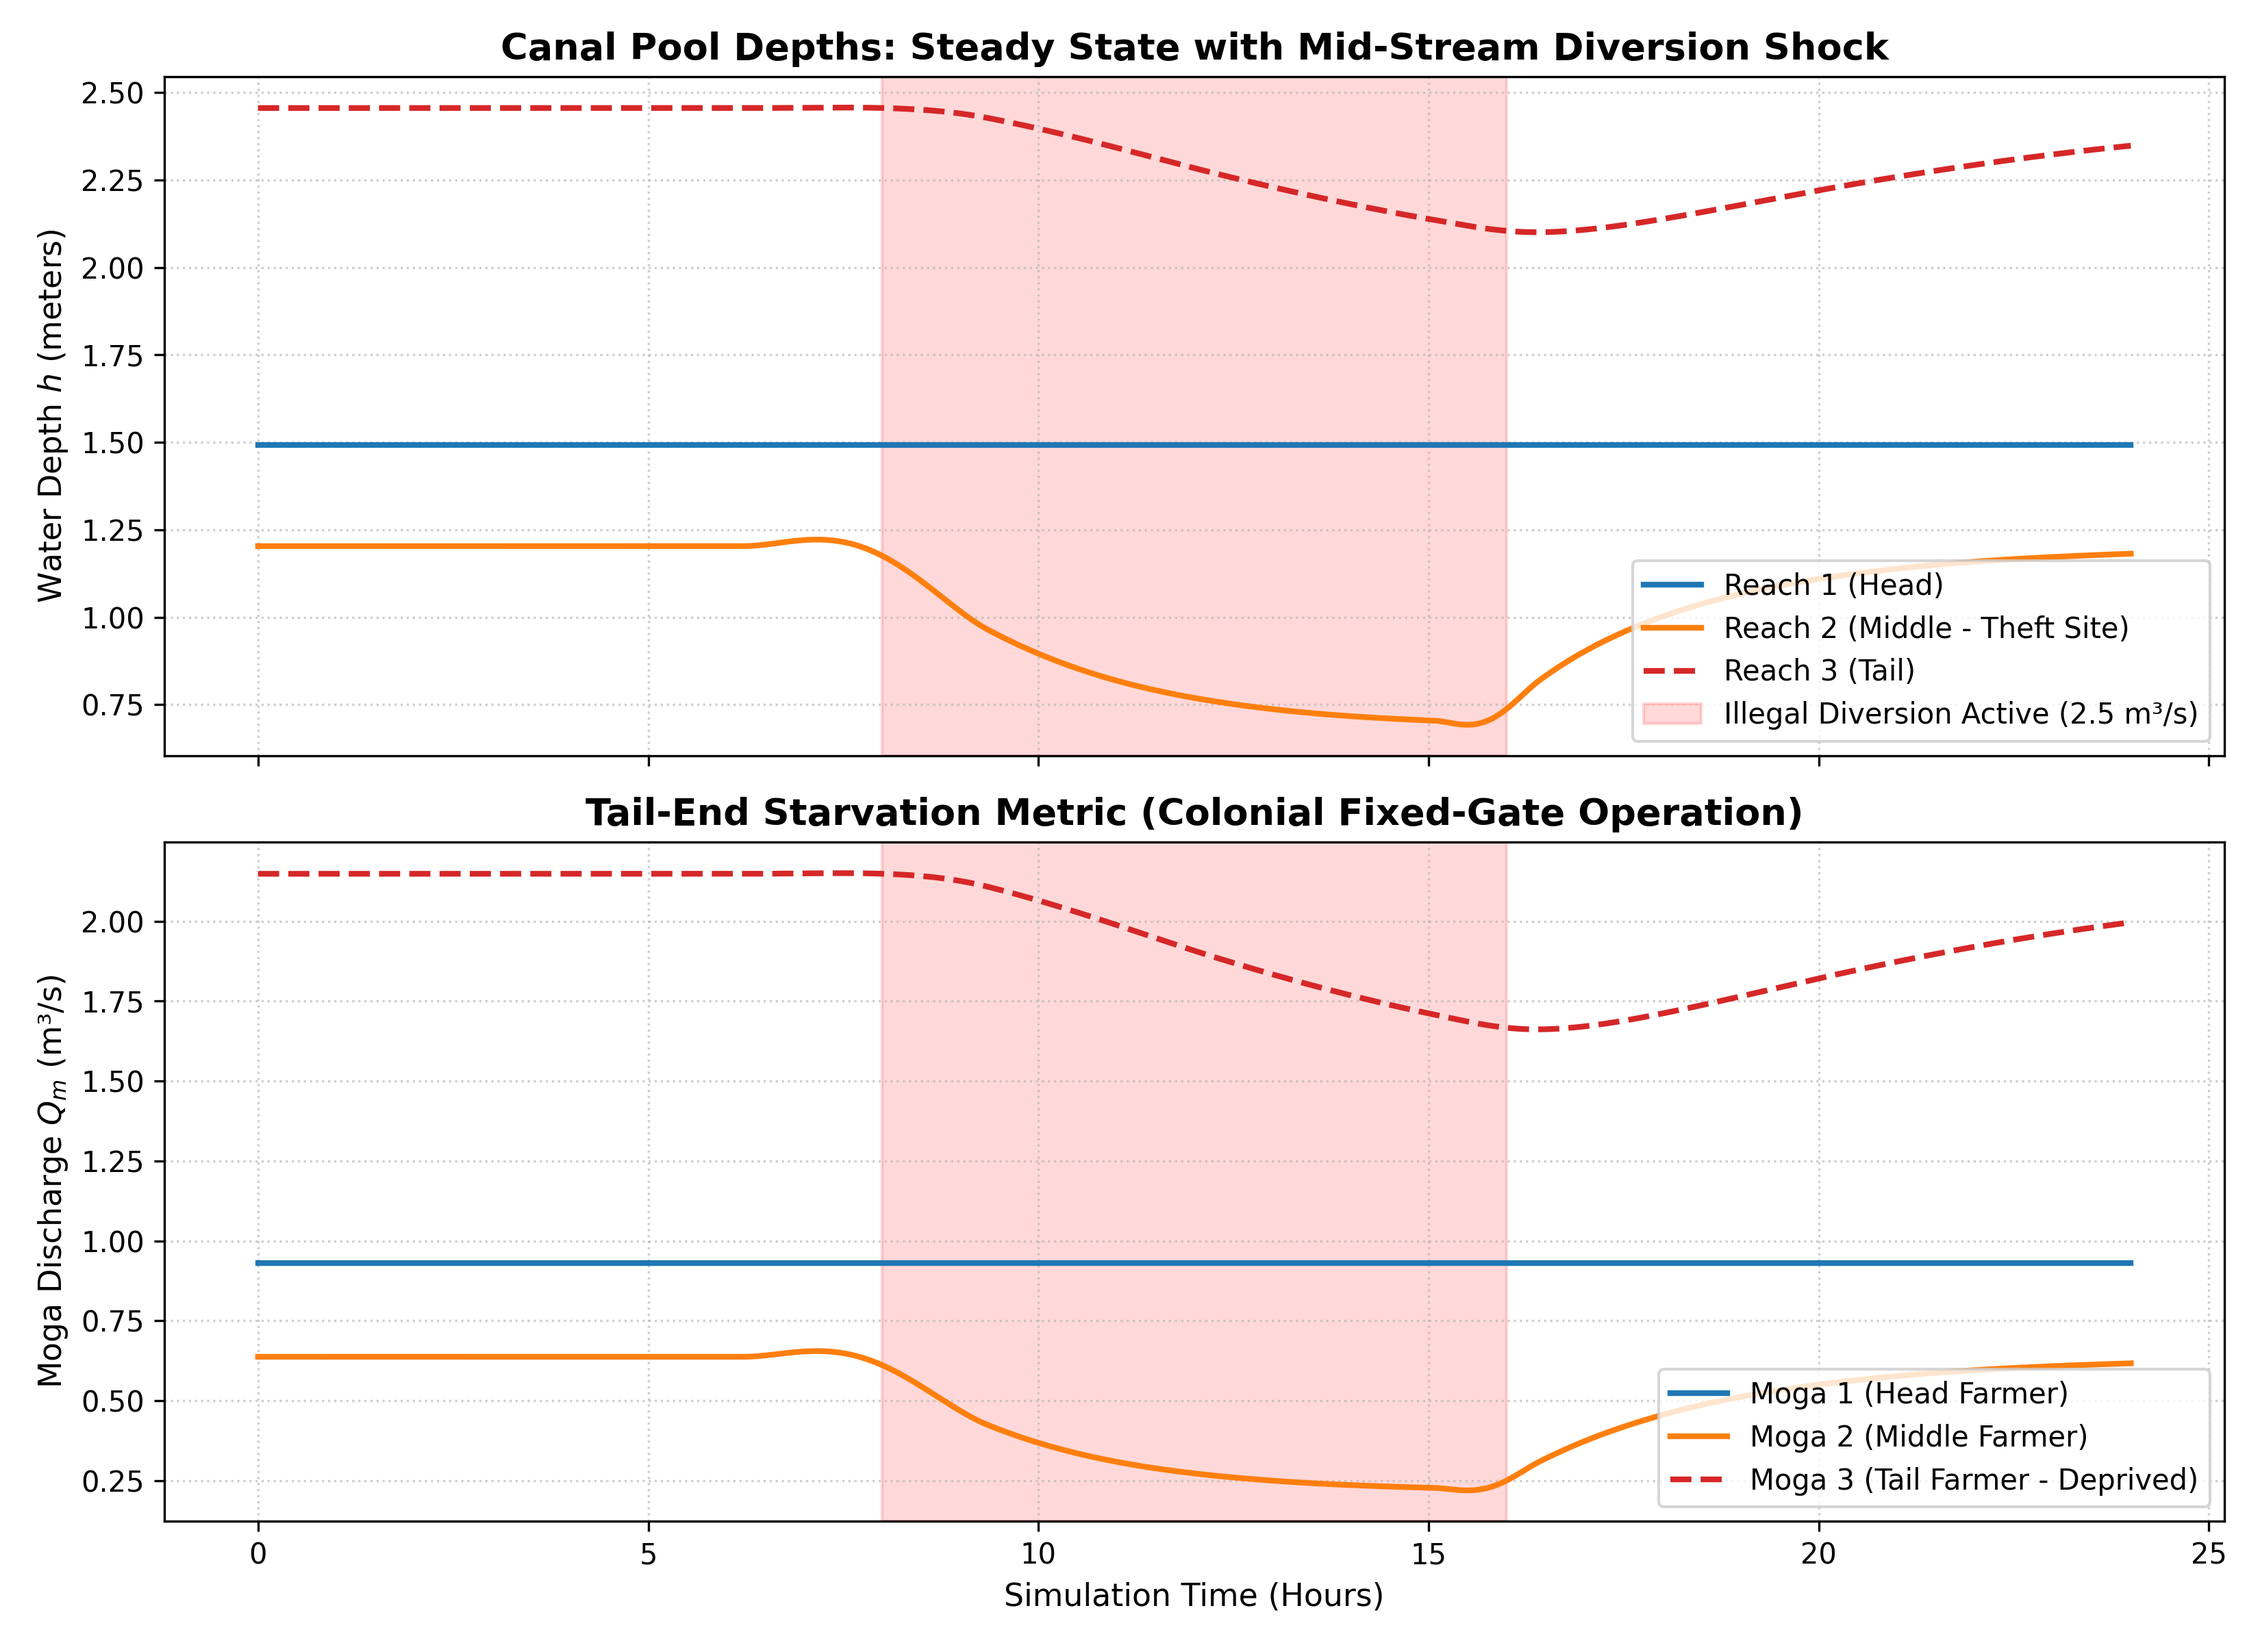
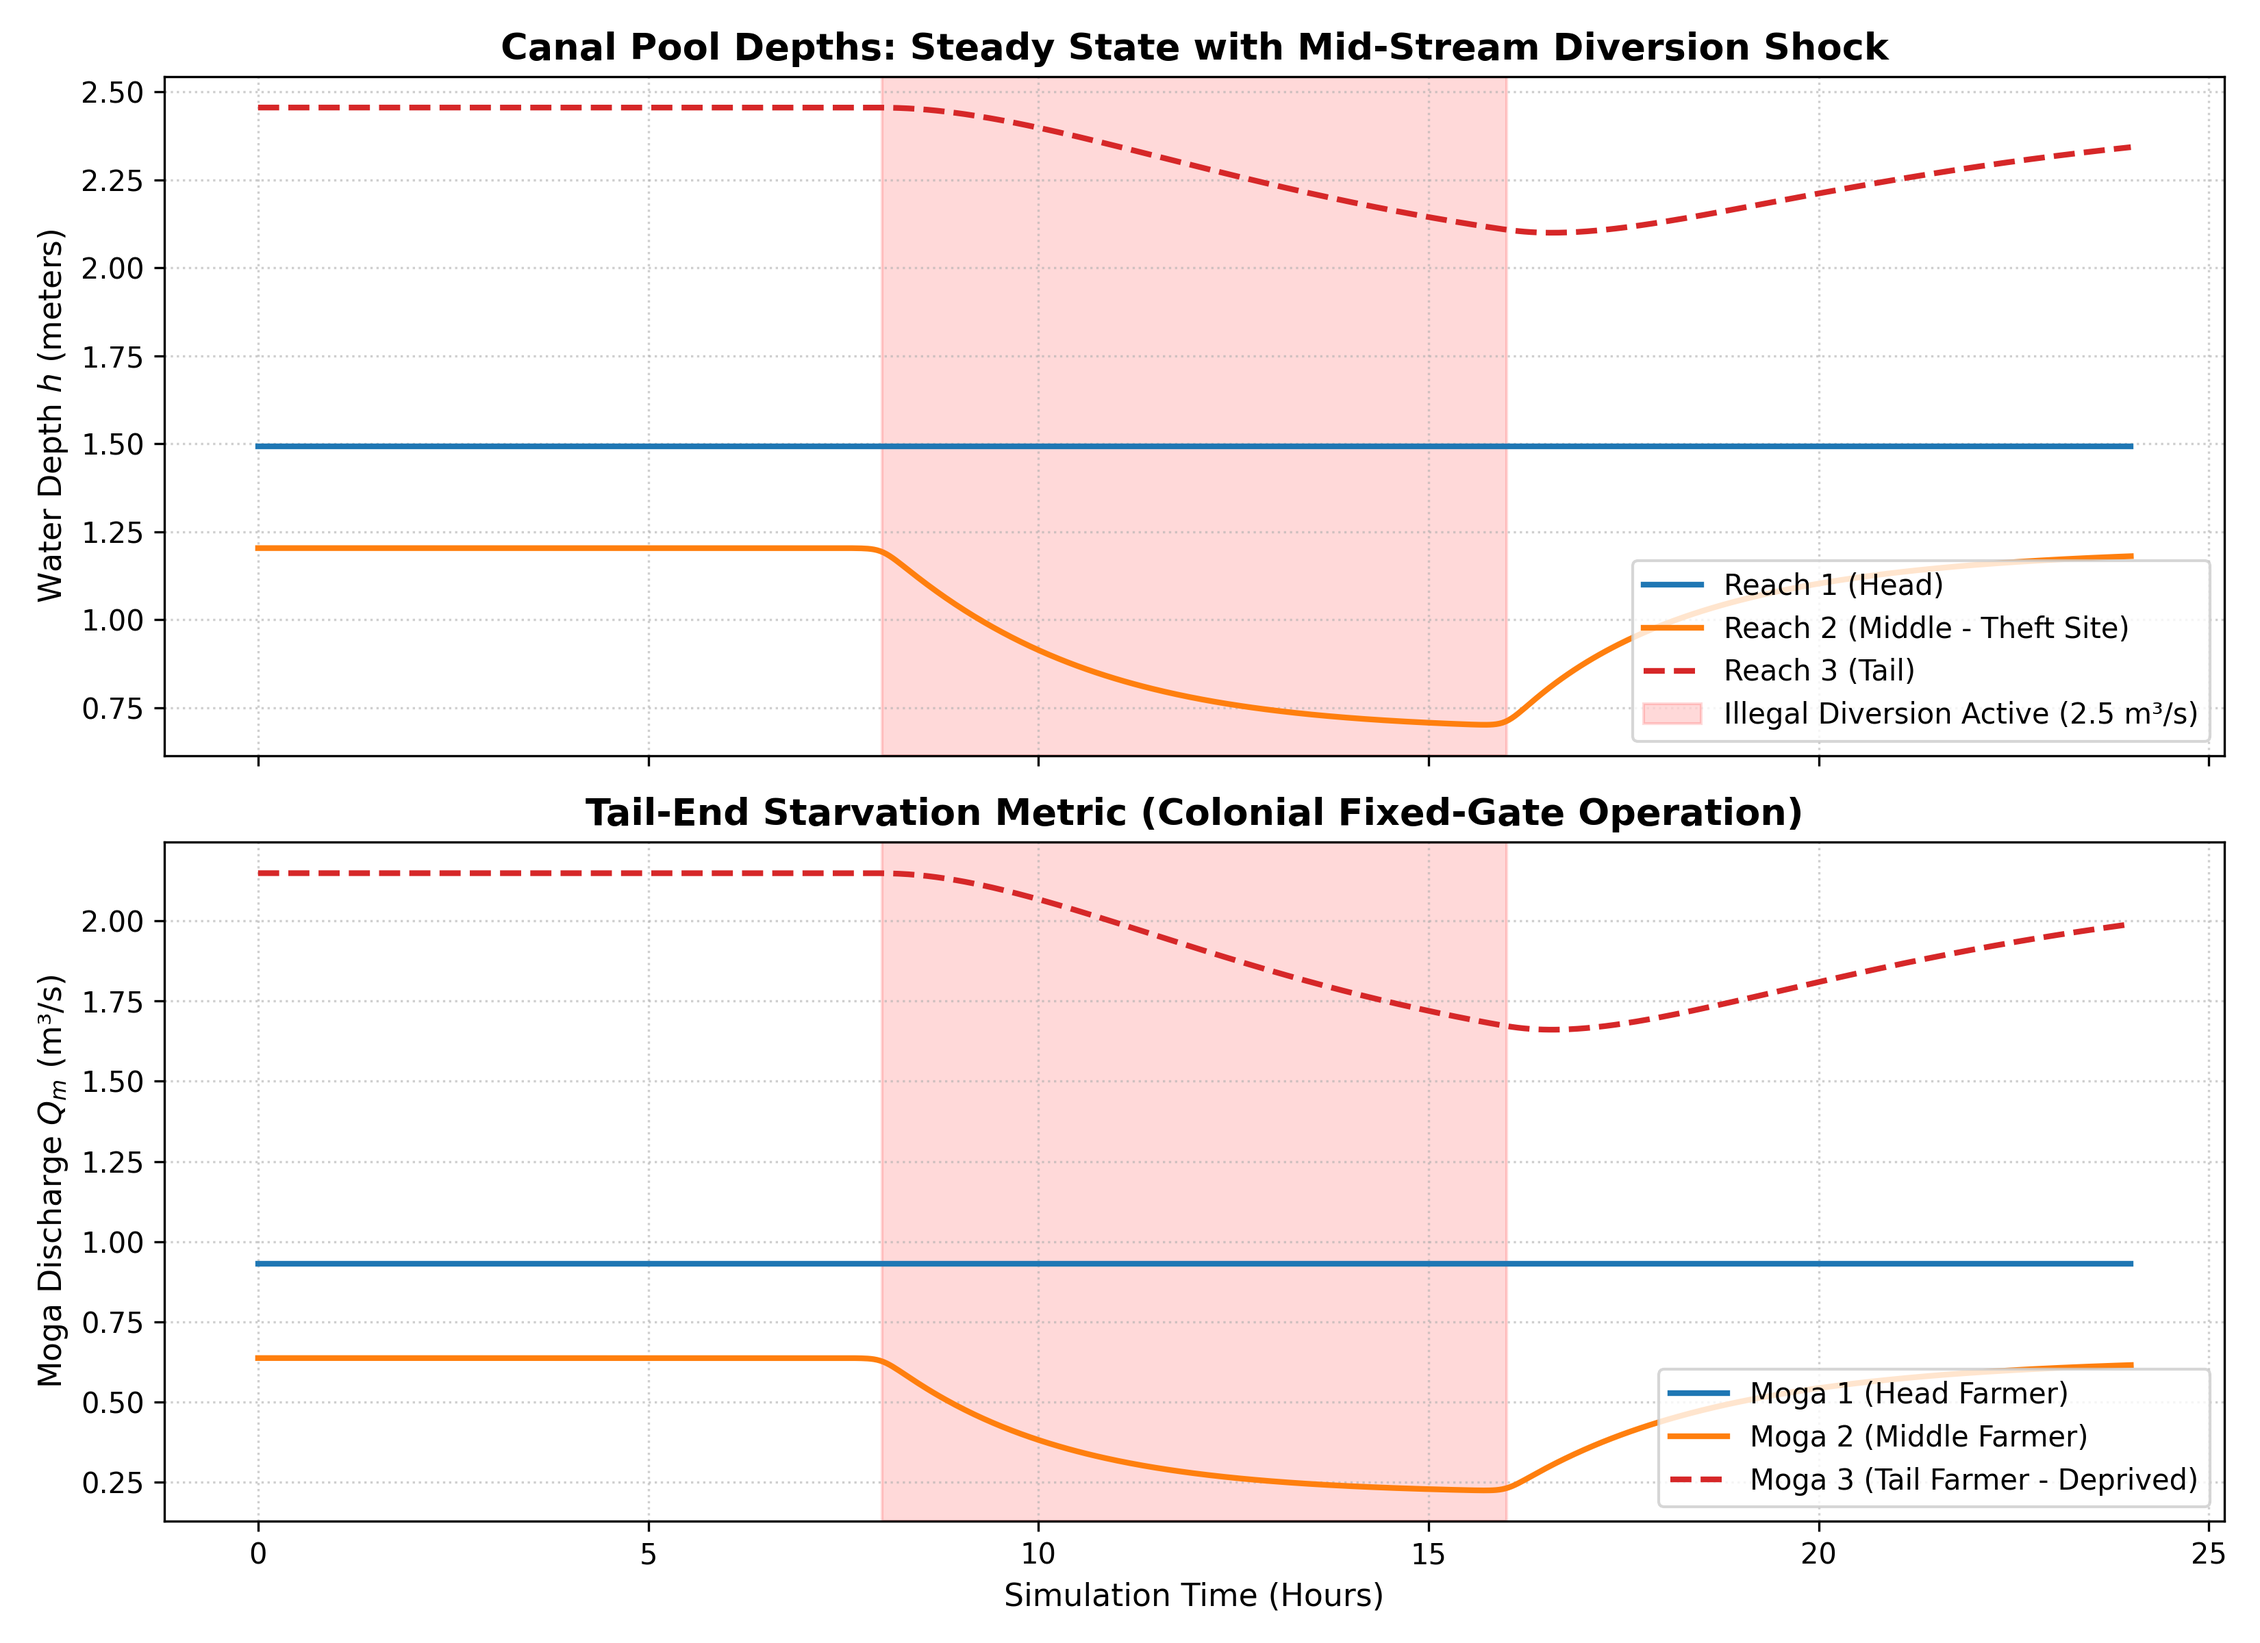
fix(physics): replace step theft with smooth sigmoid transition to eliminate solver ringing

diff --git a/src/network.py b/src/network.py
@@ -1,5 +1,6 @@
 """
 Multi-reach canal network assembling interconnected hydraulic pools and ODEs.
+Includes smooth physical transitions to eliminate numerical interpolation ringing.
 """
 from typing import List, Tuple
 import numpy as np
@@ -21,6 +22,29 @@ class CanalNetwork:
             SluiceGate(gate_width=3.5, cd=0.60),   # Gate 1: Cross-Regulator 1 (R1 -> R2)
             SluiceGate(gate_width=3.0, cd=0.60)    # Gate 2: Cross-Regulator 2 (R2 -> R3)
         ]
+
+    def _smooth_theft_profile(
+        self,
+        t: float,
+        theft_rate: float = 2.5,
+        theft_window: Tuple[float, float] = (8.0, 16.0),
+        ramp_tau: float = 300.0  # 5-minute physical ramp-up time constant
+    ) -> float:
+        """
+        Computes a C^infinity smooth logistic transition for water theft,
+        eliminating numerical RK45 polynomial ringing artifacts.
+        """
+        t_start = theft_window[0] * 3600.0
+        t_end = theft_window[1] * 3600.0
+
+        # Safe sigmoid calculation to prevent numerical overflow
+        def sigmoid(val):
+            val_clipped = np.clip(val, -50.0, 50.0)
+            return 1.0 / (1.0 + np.exp(-val_clipped))
+
+        turn_on = sigmoid((t - t_start) / ramp_tau)
+        turn_off = sigmoid((t - t_end) / ramp_tau)
+        return float(theft_rate * turn_on * (1.0 - turn_off))
 
     def system_derivatives(
         self,
@@ -51,11 +75,10 @@ class CanalNetwork:
         Q_s2 = self.reaches[1].seepage_loss(h2)
         Q_s3 = self.reaches[2].seepage_loss(h3)
 
-        # 3. Theft event
+        # 3. Smooth Physical Theft Profile
         Q_theft = 0.0
-        t_hours = t / 3600.0
-        if theft_active and (theft_window[0] <= t_hours <= theft_window[1]):
-            Q_theft = theft_rate
+        if theft_active:
+            Q_theft = self._smooth_theft_profile(t, theft_rate, theft_window)
 
         # 4. ODEs: dh/dt
         dh1_dt = (Q_in1 - Q_gate1 - Q_moga1 - Q_s1) / self.reaches[0].surface_area(h1)
@@ -77,7 +100,7 @@ class CanalNetwork:
         gate_openings: List[float] = [1.2, 0.85, 0.75],
         theft_active: bool = True
     ) -> Tuple[np.ndarray, np.ndarray, np.ndarray]:
-        """Finds steady-state equilibrium first, then runs transient simulation."""
+        """Runs the simulation with a maximum step size to ensure smooth trajectory."""
         h_eq = self.find_steady_state(inflow, gate_openings)
         t_span = (0.0, duration_hours * 3600.0)
         t_eval = np.linspace(0.0, duration_hours * 3600.0, 600)
@@ -85,5 +108,7 @@ class CanalNetwork:
         ode_wrapper = lambda t, h: self.system_derivatives(
             t, h, gate_openings, inflow, theft_active=theft_active
         )
-        sol = solve_ivp(ode_wrapper, t_span, h_eq, t_eval=t_eval, method="RK45")
+        
+        # max_step=120s forces RK45 to sample accurately through transition windows
+        sol = solve_ivp(ode_wrapper, t_span, h_eq, t_eval=t_eval, method="RK45", max_step=120.0)
         return sol.t / 3600.0, sol.y, h_eq
